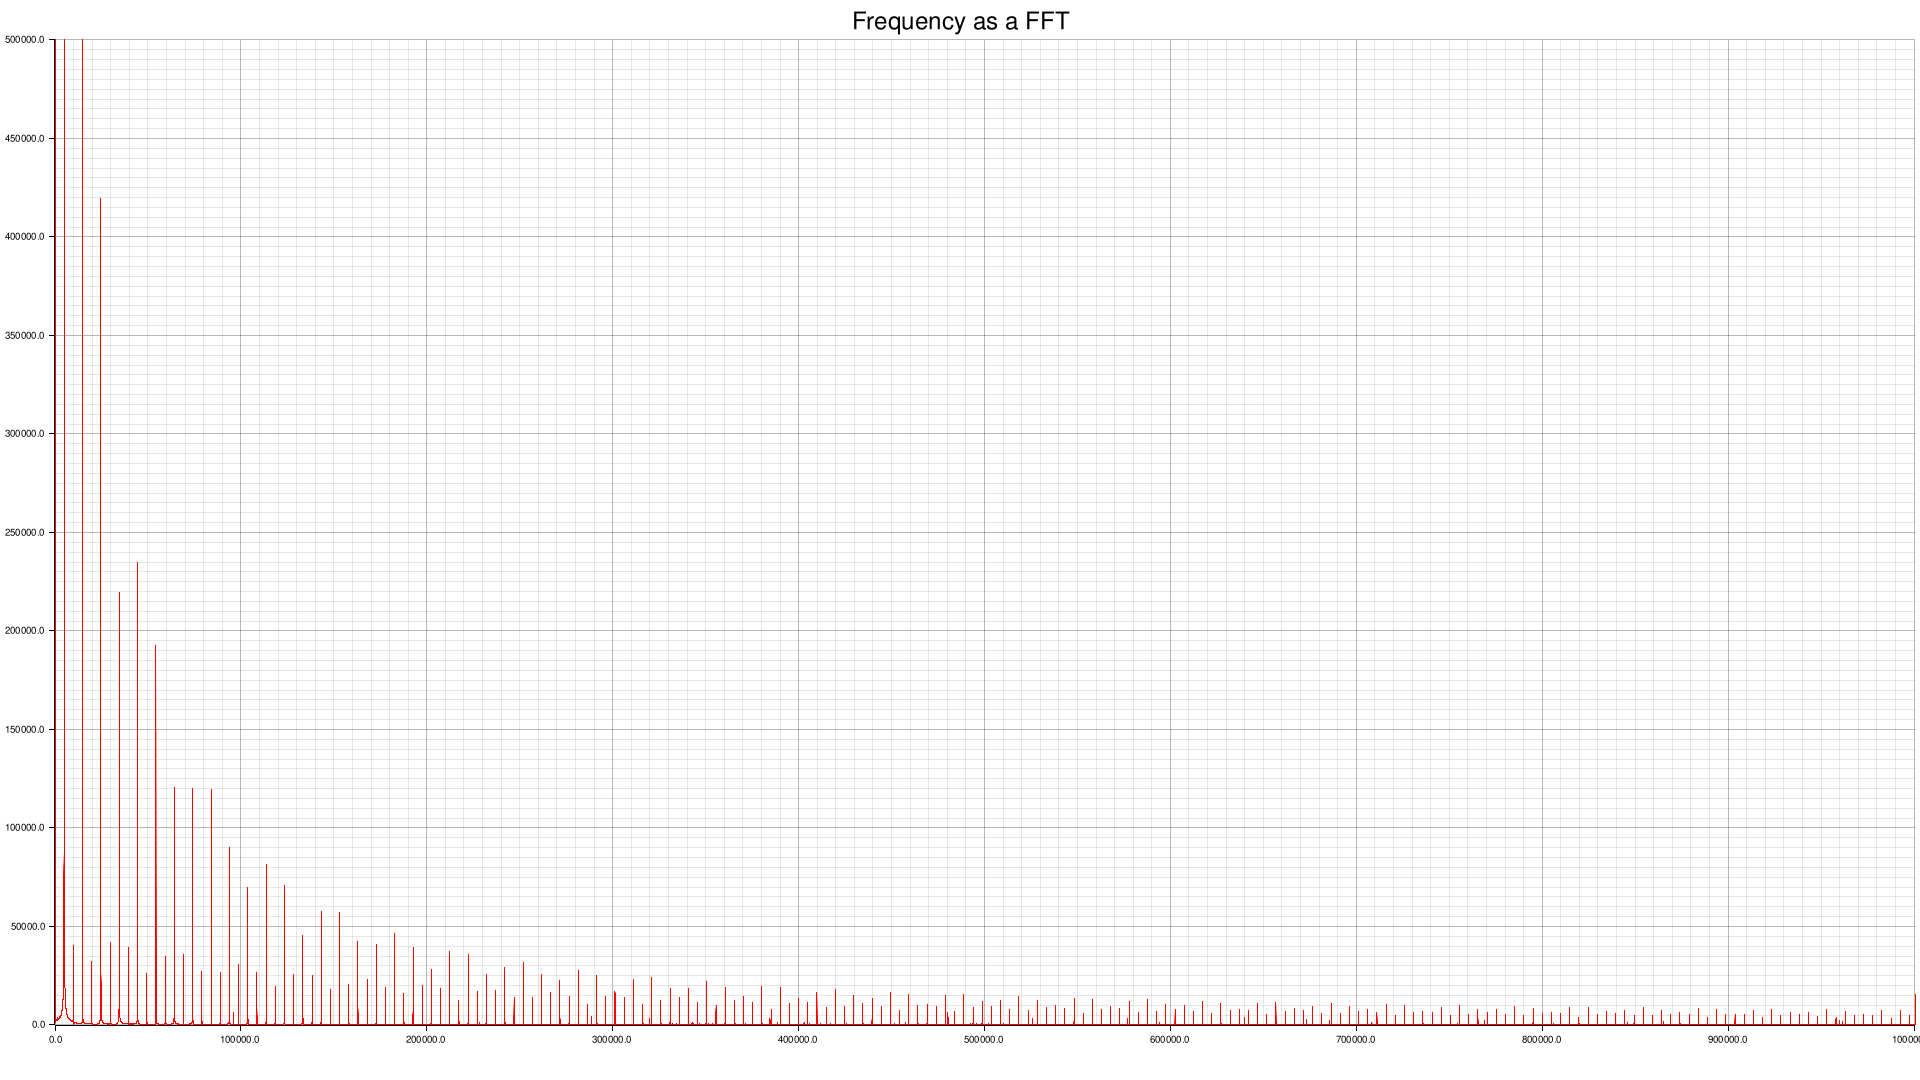
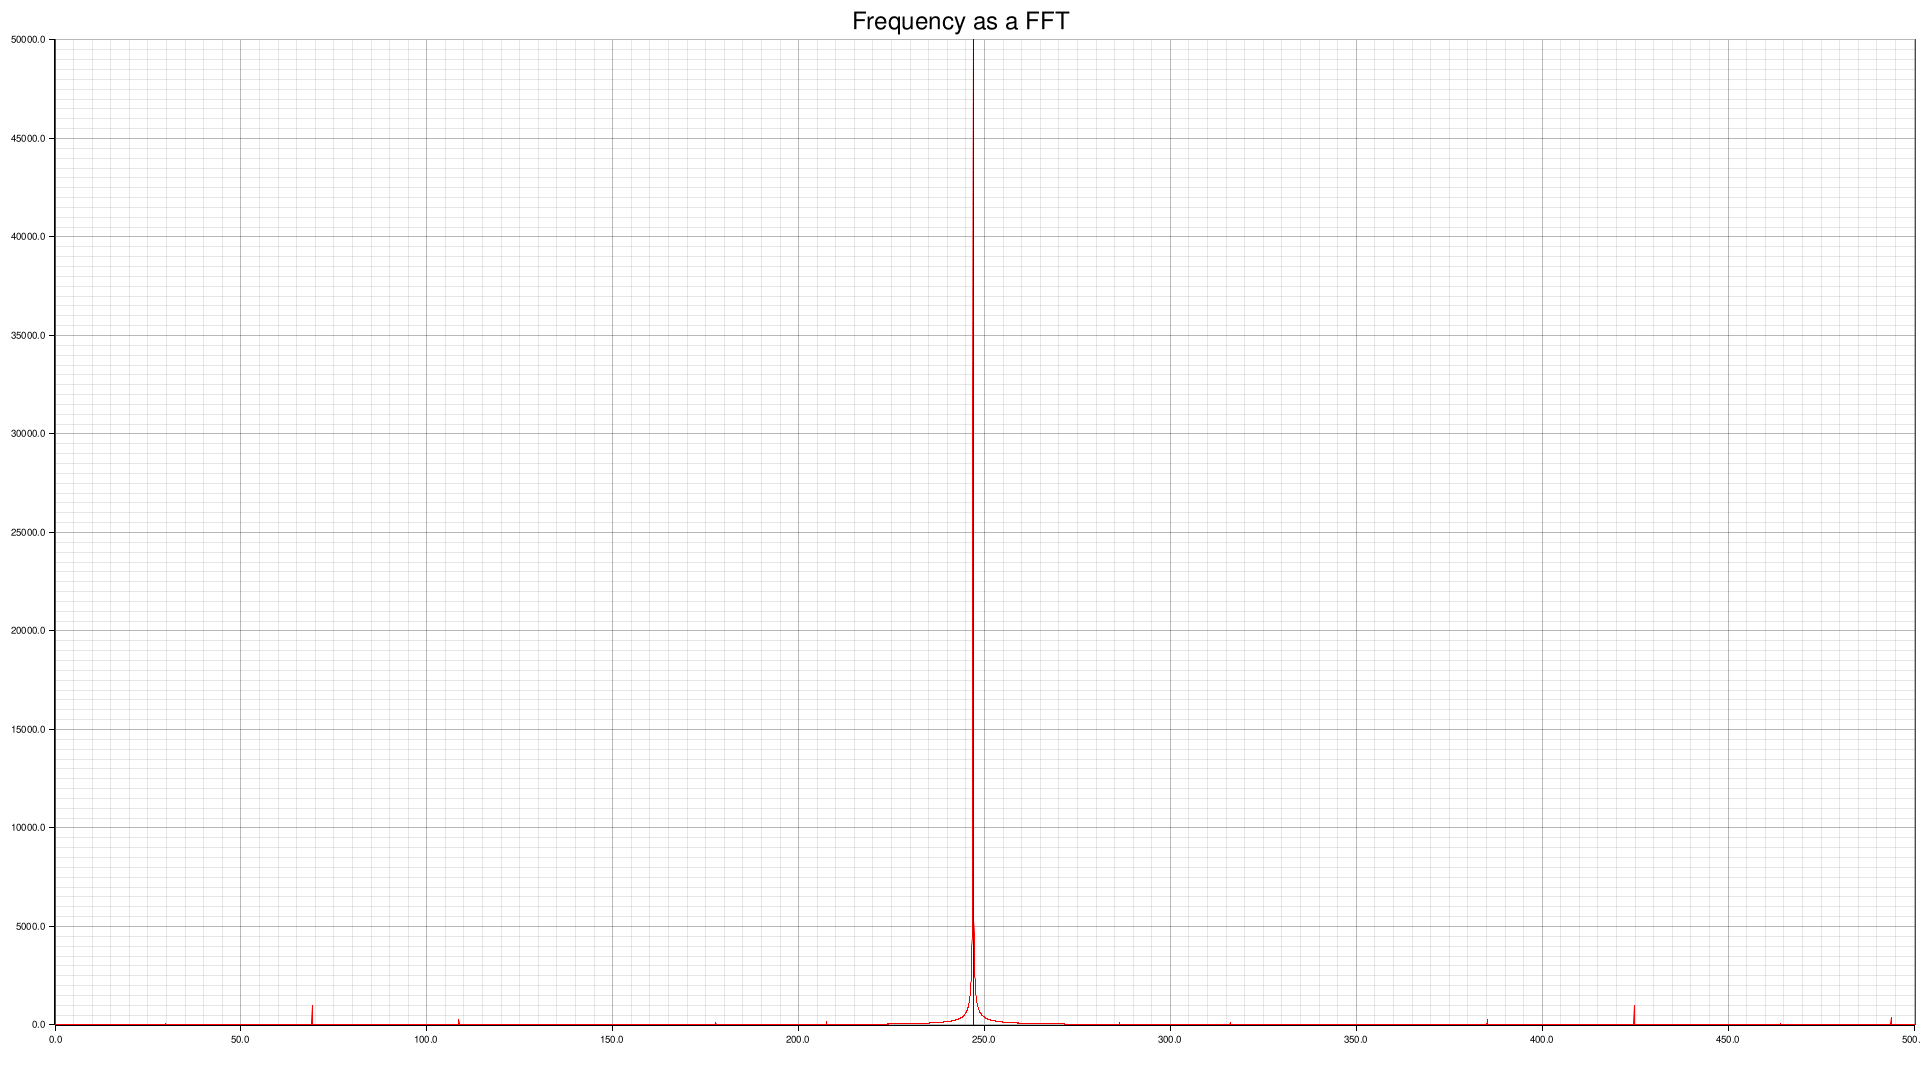
script work now

diff --git a/fft-script/src/main.rs b/fft-script/src/main.rs
@@ -11,9 +11,10 @@ use realfft::num_traits::Pow;
 use std::str;
 const UPPER_LIMIT: f64 = 0.250;
 const LOWER_LIMIT: f64 = 0.220;
-const INTERVAL: f64 = 0.00000001;
+const INTERVAL: f64 = 0.000064;
 const HERTZ: f64 = 1.0/INTERVAL;
 const LINES: usize = 10_000;
+const EXPECTED_FREQ: f32 = 1.0 / 0.004048;
 const GRAPH_NAME: &str = "graph.png";
 
 fn add_iterator_to_csv_result<T>(pb: &ProgressBar, result_time_vec: &mut Vec<f64>, result_value_vec: &mut Vec<f64>, iter: &[Result<String, T>]){
@@ -88,10 +89,10 @@ fn make_fft(mut value_vec: Vec<f64>) -> Vec<Complex<f64>> {
 
 
 fn main() {
-        let (mut a, mut b) = parse_csv(&"/home/emrik/Thesis/repos/MT-C/fft-script/analog.csv".to_string()).unwrap();
+        let (mut a, mut b) = parse_csv(&"data/c_0/analog.csv".to_string()).unwrap();
     //println!("{:?}, {:?}",a,b);
     
-    let mut spectrum = make_fft(a);
+    let mut spectrum = make_fft(a.clone());
 
     //println!("{:?}", spectrum[0].re);
 
@@ -102,9 +103,9 @@ fn main() {
     let mut low_y = 0 as f64;
     let mut high_x = 0 as f64;
     let mut high_y = 0 as f64;
-    let freq_resolution = HERTZ/(spectrum.len() as f64);
+    let freq_resolution = HERTZ/(a.len() as f64);
     
-    for (index,complex) in spectrum.into_iter().enumerate() {
+    for (index,complex) in spectrum.clone().into_iter().enumerate() {
         real.push(complex.re);
         img.push(complex.im);
         //format.push((complex.re as f32,complex.im as f32));
@@ -139,7 +140,7 @@ fn main() {
         .margin(5)
         .x_label_area_size(50)
         .y_label_area_size(50)
-        .build_cartesian_2d(low_x as f32..1000000 as f64 as f32, low_y as f32..500000 as f32).unwrap();
+        .build_cartesian_2d(low_x as f32..500 as f64 as f32, low_y as f32..50000 as f32).unwrap();
 
     chart.configure_mesh().draw().unwrap();
 
@@ -148,6 +149,11 @@ fn main() {
             format,
             &RED,
         )).unwrap();
+
+    chart.draw_series(LineSeries::new(
+        [(EXPECTED_FREQ, 0.0), (EXPECTED_FREQ, 50000.0)],
+        &BLUE
+    )).unwrap();
 
     println!("Done! Saved as {}", GRAPH_NAME);
     root.present().unwrap();
